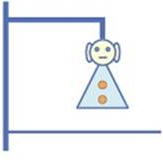
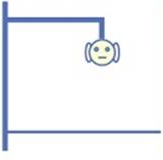
rename pics; add event listener

Changed region(s): [[0.4601, 0.0938, 0.7975, 0.6875], [0.0, 0.0, 0.0613, 0.9375], [0.9816, 0.8125, 1.0, 0.8438]]

diff --git a/index_bootstrap.html b/index_bootstrap.html
@@ -1,0 +1,56 @@
+<!DOCTYPE html>
+<html lang="en">
+<head>
+	<meta charset="UTF-8">
+	<meta name="viewport" content="width=device-width, initial-scale=1">
+	<title>HANGMAN</title>
+	<link href="https://maxcdn.bootstrapcdn.com/bootstrap/3.3.7/css/bootstrap.min.css" rel="stylesheet" integrity="sha384-BVYiiSIFeK1dGmJRAkycuHAHRg32OmUcww7on3RYdg4Va+PmSTsz/K68vbdEjh4u" crossorigin="anonymous">
+	<script src="https://ajax.googleapis.com/ajax/libs/jquery/3.3.1/jquery.min.js"></script>
+	<script src="https://maxcdn.bootstrapcdn.com/bootstrap/3.3.7/js/bootstrap.min.js" integrity="sha384-Tc5IQib027qvyjSMfHjOMaLkfuWVxZxUPnCJA7l2mCWNIpG9mGCD8wGNIcPD7Txa" crossorigin="anonymous"></script>
+	<link rel="stylesheet" href="assets/css/bootstrap.css">
+	<link rel="stylesheet" href="assets/css/style.css">
+</head>
+<body>
+	<div class="page-header text-center">
+		<h1>HANGMAN<small>by mhgerov</small></h1>
+	</div>
+	<div class="container-fluid">
+		<div class="row">
+			<div class="col-sm-2"></div>
+			<div class="col-sm-4">
+				<img class="center-block" src="assets/images/hangman9.jpg" alt="">
+				<p class="text-center">Attempts Left: 9</p>
+			</div>
+			<div class="col-sm-4" id="game-text">
+				<ul class="list-unstyled text-center">
+					<li>Current Word:</li>
+					<li id="board">_ _ _ _ _ _</li>
+					<li>Letters Guessed:</li>
+					<li id="lettersGuessed">None</li>
+				</ul>
+				<table class="text-center">
+					<tr>
+						<td>Wins:</td>
+						<td>Losses:</td>
+					</tr>
+					<tr>
+						<td id="wins">0</td>
+						<td id="losses">0</td>
+					</tr>
+				</table>
+				<div class="btn-group">
+				  <button type="button" class="btn btn-danger dropdown-toggle" data-toggle="dropdown" aria-haspopup="true" aria-expanded="false">
+					Action
+				  </button>
+				  <div class="dropdown-menu" aria-labelledby="dropdownMenuButton">
+					<a class="dropdown-item" href="#">A</a>
+					<a class="dropdown-item" href="#">B</a>
+					<a class="dropdown-item" href="#">C</a>
+				  </div>
+				</div>
+			</div>
+		</div>
+	</div>
+	<script src="assets/javascript/game.js"></script>
+</body>
+</html>

diff --git a/index.html b/index.html
@@ -4,43 +4,28 @@
 	<meta charset="UTF-8">
 	<meta name="viewport" content="width=device-width, initial-scale=1">
 	<title>HANGMAN</title>
-	<link href="https://maxcdn.bootstrapcdn.com/bootstrap/3.3.7/css/bootstrap.min.css" rel="stylesheet" integrity="sha384-BVYiiSIFeK1dGmJRAkycuHAHRg32OmUcww7on3RYdg4Va+PmSTsz/K68vbdEjh4u" crossorigin="anonymous">
-	<script src="https://ajax.googleapis.com/ajax/libs/jquery/3.3.1/jquery.min.js"></script>
-	<script src="https://maxcdn.bootstrapcdn.com/bootstrap/3.3.7/js/bootstrap.min.js" integrity="sha384-Tc5IQib027qvyjSMfHjOMaLkfuWVxZxUPnCJA7l2mCWNIpG9mGCD8wGNIcPD7Txa" crossorigin="anonymous"></script>
-	<link rel="stylesheet" href="assets/css/bootstrap.css">
-	<link rel="stylesheet" href="assets/css/style.css">
 </head>
 <body>
-	<div class="page-header text-center">
-		<h1>HANGMAN<small>by mhgerov</small></h1>
-	</div>
-	<div class="container-fluid">
-		<div class="row">
-			<div class="col-sm-2"></div>
-			<div class="col-sm-4">
-				<img class="center-block" src="assets/images/hangman9.jpg" alt="">
-				<p class="text-center">Attempts Left: 9</p>
-			</div>
-			<div class="col-sm-4" id="game-text">
-				<ul class="list-unstyled text-center">
-					<li>Current Word:</li>
-					<li id="board">_ _ _ _ _ _</li>
-					<li>Letters Guessed:</li>
-					<li>F, U, Y</li>
-				</ul>
-				<table class="text-center">
-					<tr>
-						<td>Wins:</td>
-						<td>Losses:</td>
-					</tr>
-					<tr>
-						<td>0</td>
-						<td>0</td>
-					</tr>
-				</table>
-			</div>
-		</div>
-	</div>
+	<h1>HANGMAN<small>by mhgerov</small></h1>
+	<img src="" alt=""id="hangman">
+	<p class="text-center">Attempts Left: 9</p>
+	<ul>
+		<li>Current Word:</li>
+		<li id="board">_ _ _ _ _ _</li>
+		<li>Letters Guessed:</li>
+		<li id="lettersGuessed">None</li>
+		<li>Input:<div id="input"><div></li>
+	</ul>
+	<table>
+		<tr>
+			<td>Wins:</td>
+			<td>Losses:</td>
+		</tr>
+		<tr>
+			<td id="wins">0</td>
+			<td id="losses">0</td>
+		</tr>
+	</table>
 	<script src="assets/javascript/game.js"></script>
 </body>
 </html>

diff --git a/assets/javascript/game.js b/assets/javascript/game.js
@@ -1,8 +1,40 @@
-var mysteryWord = "Chameleon";
+//Declare variables
+var mysteryWordList = ["Chameleon","Badger","Porcupine","Platypus"]
+var mysteryWord;
+var wins, losses = 0;
+var lettersGuessed = [];
+var numTries = 9;
+var input = "";
 
-var x = document.getElementById("board").innerHTML;
+document.addEventListener('keydown', function(event) {
+	document.getElementById("input").innerHTML = event.key;
+});
+
+//main loop
+init();
+
+//function declarations
+function init() {
+	mysteryWord = mysteryWordList[Math.floor(Math.random()*mysteryWordList.length)];
+	document.getElementById("board").innerHTML = hideWord(mysteryWord);
+	document.getElementById("lettersGuessed").innerHTML = "None";
+	numTries = 9;
+	setImg(9);
+	input = "";
+	document.getElementById("input").innerHTML = input;
+}
 
 // "Word" returns "_ _ _ _"
 function hideWord(word) {
-	return word;
+	var hidden = "";
+	for (var i=0;i<word.length-1;i++) {
+		hidden+="_ "
+	}
+	hidden+="_";
+	return hidden;
 }
+
+function setImg(num) {
+	document.getElementById("hangman").src="assets/images/hangman"+num+".jpg";
+}
+
